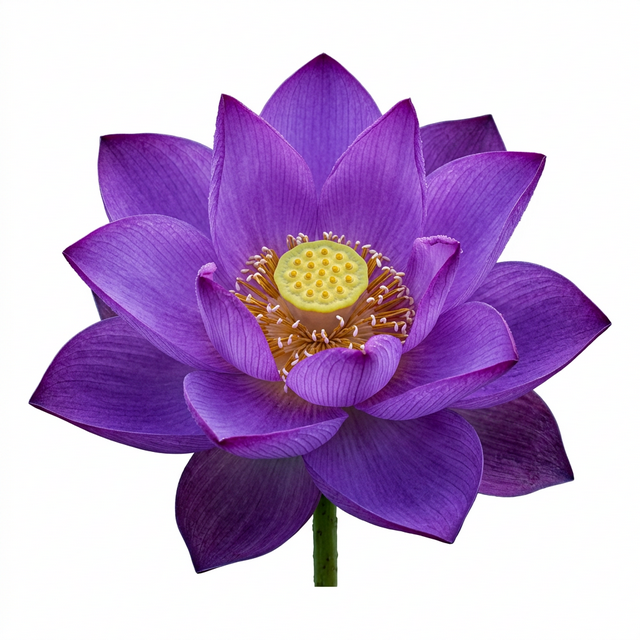
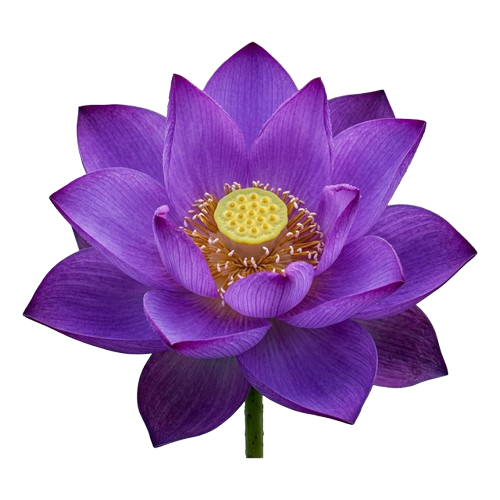
checkpoint 21/03

diff --git a/GABRIELLA ANSALDI editing/frontend/src/app/page.tsx b/GABRIELLA ANSALDI editing/frontend/src/app/page.tsx
@@ -50,9 +50,9 @@ export default function Home() {
           src="/fiore-loto.png"
           alt="Fiore di Loto delicato"
           initial={{ opacity: 0, rotate: 30, scale: 0.8 }}
-          animate={{ opacity: 0.95, rotate: 15, scale: 0.9 }}
+          animate={{ opacity: 0.95, rotate: 15, scale: 1 }}
           transition={{ duration: 1.8, delay: 0.3, ease: "easeOut" }}
-          className="absolute top-[20%] md:top-[45%] md:-translate-y-1/2 right-[-4%] md:right-[2%] lg:right-[8%] w-48 md:w-72 lg:w-88 drop-shadow-2xl pointer-events-none z-0"
+          className="absolute top-[20%] md:top-[45%] md:-translate-y-1/2 right-[-4%] md:right-[2%] lg:right-[8%] w-[192px] md:w-[288px] lg:w-[352px] drop-shadow-2xl pointer-events-none z-0"
         />
 
         <motion.span
@@ -110,6 +110,16 @@ export default function Home() {
       <section
         className={`${SECTION_H} w-full flex flex-col items-center justify-center snap-start px-6 md:px-12 relative flex-shrink-0`}
       >
+        {/* 🌸 FIORE ROSA (SINISTRA) */}
+        <motion.img
+          src="/images/assets/fiore-rosa.png"
+          alt="Fiore rosa"
+          initial={{ opacity: 0, rotate: -20, scale: 0.8 }}
+          animate={{ opacity: 0.92, rotate: -12, scale: 1.15 }}
+          transition={{ duration: 1.8, delay: 0.3, ease: "easeOut" }}
+          className="absolute top-[20%] md:top-[45%] md:-translate-y-1/2 left-[-4%] md:left-[2%] lg:left-[8%] w-[192px] md:w-[288px] lg:w-[352px] drop-shadow-2xl pointer-events-none z-0"
+        />
+
         <motion.div
           variants={liquidVariant}
           initial="hidden"
@@ -134,6 +144,37 @@ export default function Home() {
         ref={ctaRef}
         className={`${SECTION_H} w-full flex flex-col items-center justify-end snap-start px-6 md:px-12 relative flex-shrink-0 pb-24`}
       >
+        {/* 🌸 6 ANIMATED FLOWERS 🌸 */}
+        {[
+          // LEFT SIDE
+          { className: "w-16 md:w-20 left-[1%] top-[10%]", rotate: -15, hoverRotate: -20, i: 0 },
+          { className: "w-24 md:w-32 left-[3%] top-[45%]", rotate: -5, hoverRotate: -10, i: 1 },
+          { className: "w-32 md:w-44 left-[0%] top-[68%]", rotate: -20, hoverRotate: -25, i: 2 },
+          // RIGHT SIDE
+          { className: "w-16 md:w-20 right-[1%] top-[15%]", rotate: 10, hoverRotate: 15, i: 3 },
+          { className: "w-24 md:w-32 right-[3%] top-[50%]", rotate: 18, hoverRotate: 23, i: 4 },
+          { className: "w-32 md:w-44 right-[0%] top-[72%]", rotate: 8, hoverRotate: 13, i: 5 },
+        ].map((f) => (
+          <motion.img
+            key={f.i}
+            src="/images/assets/fiore-rosa2.png"
+            alt="Fiore decorativo"
+            initial={{ opacity: 0, scale: 0.85, rotate: f.rotate }}
+            animate={{ opacity: 0.88, scale: [1, 1.04, 1], rotate: f.rotate }}
+            whileHover={{ 
+              scale: 1.12, 
+              rotate: f.hoverRotate,
+              transition: { type: "spring", stiffness: 200, damping: 12 } 
+            }}
+            transition={{ 
+              repeat: Infinity, 
+              duration: 3.5 + f.i * 0.4, 
+              ease: "easeInOut" 
+            }}
+            className={`absolute pointer-events-auto z-0 drop-shadow-xl cursor-default ${f.className}`}
+          />
+        ))}
+
         <motion.div
           variants={liquidVariant}
           initial="hidden"

diff --git a/GABRIELLA ANSALDI editing/frontend/src/app/metamedicina/page.tsx b/GABRIELLA ANSALDI editing/frontend/src/app/metamedicina/page.tsx
@@ -21,7 +21,15 @@ export default function MetamedicinaPage() {
             <VioletPetalRain />
 
             {/* Hero Section */}
-            <section className="h-screen flex flex-col items-center justify-center p-8 text-center relative z-10">
+            <section className="h-screen flex flex-col items-center justify-center p-8 text-center relative z-10 overflow-hidden">
+                <motion.img
+                    src="/images/assets/flower-purple.png"
+                    alt="Fiore Metamedicina"
+                    initial={{ opacity: 0, rotate: 30, scale: 0.8 }}
+                    animate={{ opacity: 0.95, rotate: 15, scale: 1.15 }}
+                    transition={{ duration: 1.8, delay: 0.3, ease: "easeOut" }}
+                    className="absolute top-[20%] md:top-[45%] md:-translate-y-1/2 right-[-4%] md:right-[2%] lg:right-[8%] w-[192px] md:w-[288px] lg:w-[352px] drop-shadow-2xl pointer-events-none z-0"
+                />
                 <motion.h1
                     initial={{ opacity: 0, scale: 0.9 }}
                     whileInView={{ opacity: 1, scale: 1 }}

diff --git a/GABRIELLA ANSALDI editing/frontend/src/app/biodanza/page.tsx b/GABRIELLA ANSALDI editing/frontend/src/app/biodanza/page.tsx
@@ -21,7 +21,15 @@ export default function BiodanzaPage() {
             <BluePetalRain />
 
             {/* Hero Section */}
-            <section className="h-screen flex flex-col items-center justify-center p-8 text-center relative z-10">
+            <section className="h-screen flex flex-col items-center justify-center p-8 text-center relative z-10 overflow-hidden">
+                <motion.img
+                    src="/images/assets/Blu.png"
+                    alt="Fiore Biodanza"
+                    initial={{ opacity: 0, rotate: 30, scale: 0.8 }}
+                    animate={{ opacity: 0.95, rotate: 15, scale: 1.15 }}
+                    transition={{ duration: 1.8, delay: 0.3, ease: "easeOut" }}
+                    className="absolute top-[20%] md:top-[45%] md:-translate-y-1/2 right-[-4%] md:right-[2%] lg:right-[8%] w-[192px] md:w-[288px] lg:w-[352px] drop-shadow-2xl pointer-events-none z-0"
+                />
                 <motion.h1
                     initial={{ opacity: 0, y: 20 }}
                     whileInView={{ opacity: 1, y: 0 }}
